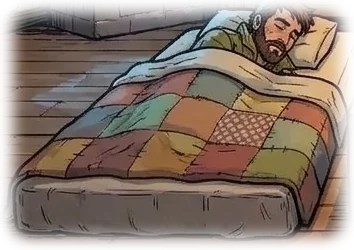
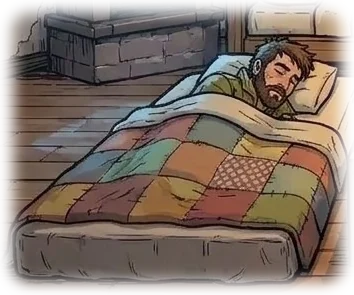
Chambre : cheveux de Papa et Maman entiers (découpe remontée), lits posés du fond vers le devant

diff --git a/piece.js b/piece.js
@@ -650,7 +650,7 @@ var FEUX_PIECE = {
    Un membre trop fatigué pour sortir se repose dans SON lit (Papa : matelas de gauche, Maman : de droite,
    Léo : lit du bas, Emma : lit du haut). Chaque lit occupé est un morceau découpé dans une retouche Gemini de la
    chambre, posé au-dessus du feu et des fenêtres ; ils se combinent. Les recrues n'ont pas encore leur image. */
-var LITS_CHAMBRE = { "Papa":[98, 540, 452, 790, "papa"], "Maman":[628, 540, 992, 790, "maman"], "Léo":[338, 432, 722, 562, "leo"], "Emma":[330, 250, 722, 352, "emma"] };
+var LITS_CHAMBRE = { "Emma":[330, 250, 722, 352, "emma"], "Léo":[338, 432, 722, 562, "leo"], "Papa":[98, 495, 452, 790, "papa"], "Maman":[628, 495, 992, 790, "maman"] }; // ordre de pose : du fond vers le devant
 function enSortie(x){ var i = G.m.indexOf(x); return !!(G.exp && G.exp.equipe && G.exp.equipe.indexOf(i) >= 0); }
 function auLit(r){ var x = G && G.m && G.m.find(function(y){ return (y.r || y.nom) === r; }); return !!(x && x.al && !x.raid && !enSortie(x) && !peutSortir(x)); }
 (function(){

diff --git a/site/piece.js b/site/piece.js
@@ -650,7 +650,7 @@ var FEUX_PIECE = {
    Un membre trop fatigué pour sortir se repose dans SON lit (Papa : matelas de gauche, Maman : de droite,
    Léo : lit du bas, Emma : lit du haut). Chaque lit occupé est un morceau découpé dans une retouche Gemini de la
    chambre, posé au-dessus du feu et des fenêtres ; ils se combinent. Les recrues n'ont pas encore leur image. */
-var LITS_CHAMBRE = { "Papa":[98, 540, 452, 790, "papa"], "Maman":[628, 540, 992, 790, "maman"], "Léo":[338, 432, 722, 562, "leo"], "Emma":[330, 250, 722, 352, "emma"] };
+var LITS_CHAMBRE = { "Emma":[330, 250, 722, 352, "emma"], "Léo":[338, 432, 722, 562, "leo"], "Papa":[98, 495, 452, 790, "papa"], "Maman":[628, 495, 992, 790, "maman"] }; // ordre de pose : du fond vers le devant
 function enSortie(x){ var i = G.m.indexOf(x); return !!(G.exp && G.exp.equipe && G.exp.equipe.indexOf(i) >= 0); }
 function auLit(r){ var x = G && G.m && G.m.find(function(y){ return (y.r || y.nom) === r; }); return !!(x && x.al && !x.raid && !enSortie(x) && !peutSortir(x)); }
 (function(){

diff --git a/site/sw.js b/site/sw.js
@@ -4,7 +4,7 @@
    IMPORTANT : à chaque mise à jour du jeu, changer VERSION (sinon les
    téléphones garderaient l'ancienne copie).
    ===================================================================== */
-var VERSION = "survival-20261111-1704";
+var VERSION = "survival-20261111-1711";
 var FICHIERS = [
   "./",
   "index.html",

diff --git a/CLAUDE.md b/CLAUDE.md
@@ -349,7 +349,7 @@ Discussion du clan façon messagerie (2026-11-11, retour de Fabien : « ça fait
 Accès rapide aux pièces (2026-11-11, idée de Fabien) : bouton maison « Pièces » à droite de Dormir (`.bt-pieces`, icône seule sur téléphone, colonne étroite : `.acts:has(> .bt-pieces)`) → `openPieces()` (piece.js) : une vignette par pièce visible (découpée dans sa propre image, centrée sur son `cadre`), la pièce actuelle encadrée, pastille rouge « Dormir » sur la chambre quand plus personne ne peut sortir, « Opération » sur la grande salle quand une opération attend (`pastillePiece`, point rouge sur le bouton : `alertePieces`). Le contrôleur ne compare plus la largeur du bouton Pièces à celle des 4 grands boutons. Pastille des soins de l'en-tête : icône de la trousse (le bandage, tout fin, paraissait minuscule). Scène minuscule : l'étiquette de Rex se cache quand le canapé invite à dormir
 Barricades aux fenêtres (2026-11-11, idée de Fabien) : les planches ne sont plus posées sur la porte du salon. Gemini a retouché 5 pièces (seule la fenêtre change, prompts `images/sources/prompts-barricades.md`, sources `images/sources/barricade-<pièce>-<niveau>-gemini.jpg`) ; Claude a découpé la zone de chaque fenêtre avec un bord adouci → `images/barricades/<pièce>-<niveau>[-n].webp`. `BARRICADES` (zones découpées en pixels de l'image), `BARRICADE_NIV0` (cuisine et chambre, déjà barricadées sur l'image d'origine : niveau 0 = vitre propre), `niveauBarr()` (G.ref.barr, 3 au plus) : ajoutés aux `decor` des pièces (sous les autres décors) au chargement de piece.js ; zone « Barricade » sur chaque fenêtre (`FENETRES`, act `pFenetre` → `openElement("barr")`). Au niveau 3 du salon, les rideaux descendent jusqu'au sol et cachent la plante (choix de Gemini, gardé). Guide : phrase dans « Le refuge ». `preparer-site.py` copie `images/barricades`
 Le feu en morceau collé (2026-11-11, préparation des personnages dans les pièces) : le salon, la chambre et la cuisine n'ont plus qu'une image de base, feu éteint (`refuge-fond-eteint-propre`, `piece-chambre-propre`, `piece-cuisine`) ; quand le feu brûle (`G.feu`, ou la cuisinière le jour où l'on a cuisiné), `FEUX_PIECE` (fin de piece.js) pose la cheminée allumée et sa lueur, découpées par Claude dans les anciennes images allumées (`images/feux/salon|chambre|cuisine.webp`, bord très adouci), juste au-dessus des fenêtres et sous les autres décors. Les anciennes images allumées restent (vitrine, sources). RÈGLE pour la suite : une variante de pièce = un petit morceau collé au pixel près (fenêtre, feu, objet, personnage), jamais une nouvelle image entière. `preparer-site.py` copie `images/feux`
-La famille dans la chambre (2026-11-11, premier essai des personnages dans les pièces) : un membre vivant, pas parti, trop fatigué pour sortir (`!peutSortir`) se repose dans SON lit (`LITS_CHAMBRE`, `auLit(rôle)`, fin de piece.js) : Papa matelas de gauche, Maman de droite, Léo lit du bas, Emma lit du haut. Morceaux découpés dans 4 retouches Gemini (`images/personnages/chambre-papa|maman|leo|emma.webp`, sources `images/sources/chambre-<rôle>-lit-gemini.jpg`, prompts `images/sources/prompts-personnages.md`), posés après les fenêtres et le feu ; la peluche se retire quand Léo dort. Le feu de la chambre est découpé plus petit (138-346 × 318-584) pour ne plus couvrir les lits. Recrues : pas encore d'image. Lits vides (2e essai Gemini : couverture pliée au pied du lit, drap à plat ; source `images/sources/chambre-lits-vides-gemini.webp`, 1239 × 1270 ramenée à 1024 × 1050) : `images/personnages/chambre-vide-<rôle>.webp`, posés quand personne n’y dort. À faire : recrues, canapé du salon, cuisinière
+La famille dans la chambre (2026-11-11, premier essai des personnages dans les pièces) : un membre vivant, pas parti, trop fatigué pour sortir (`!peutSortir`) se repose dans SON lit (`LITS_CHAMBRE`, `auLit(rôle)`, fin de piece.js) : Papa matelas de gauche, Maman de droite, Léo lit du bas, Emma lit du haut ; posés du fond vers le devant (Emma, Léo, Papa, Maman), les matelas découpés dès y = 495 pour ne pas couper les cheveux. Morceaux découpés dans 4 retouches Gemini (`images/personnages/chambre-papa|maman|leo|emma.webp`, sources `images/sources/chambre-<rôle>-lit-gemini.jpg`, prompts `images/sources/prompts-personnages.md`), posés après les fenêtres et le feu ; la peluche se retire quand Léo dort. Le feu de la chambre est découpé plus petit (138-346 × 318-584) pour ne plus couvrir les lits. Recrues : pas encore d'image. Lits vides (2e essai Gemini : couverture pliée au pied du lit, drap à plat ; source `images/sources/chambre-lits-vides-gemini.webp`, 1239 × 1270 ramenée à 1024 × 1050) : `images/personnages/chambre-vide-<rôle>.webp`, posés quand personne n’y dort. À faire : recrues, canapé du salon, cuisinière
 Décor des assauts : la cour fortifiée (`piece-bastion-cour.webp`) sert de fond au combat pendant un assaut (ui.js, `openCombat`).
 Bilan de difficulté (2026-11-10, simulation après tous les ajouts) : Malin vit 85 jours (médiane, 10 % ≤ 68, 90 % ≤ 104, max 122), 96 % atteignent le jour 60, 79 % le jour 75, seulement 16 % le jour 100 ; Naïf 10 jours (1re mort au jour 5). Causes de mort de Malin : attaques de nuit, puis soif, puis faim. Assauts (2 membres, robot Auto, 200 essais) : bastion faible = 100 % de victoires ; remparts 5 + armurerie 3 + cible au jour 200 = 0 % (7 % avec gilets, casques, boucliers et camion au maximum) : courbe trop raide, à lisser. Jour d'accès aux clans : 100 jugé trop long.
 Réglages du 2026-11-10 (choix de Fabien : 30 jours) :
